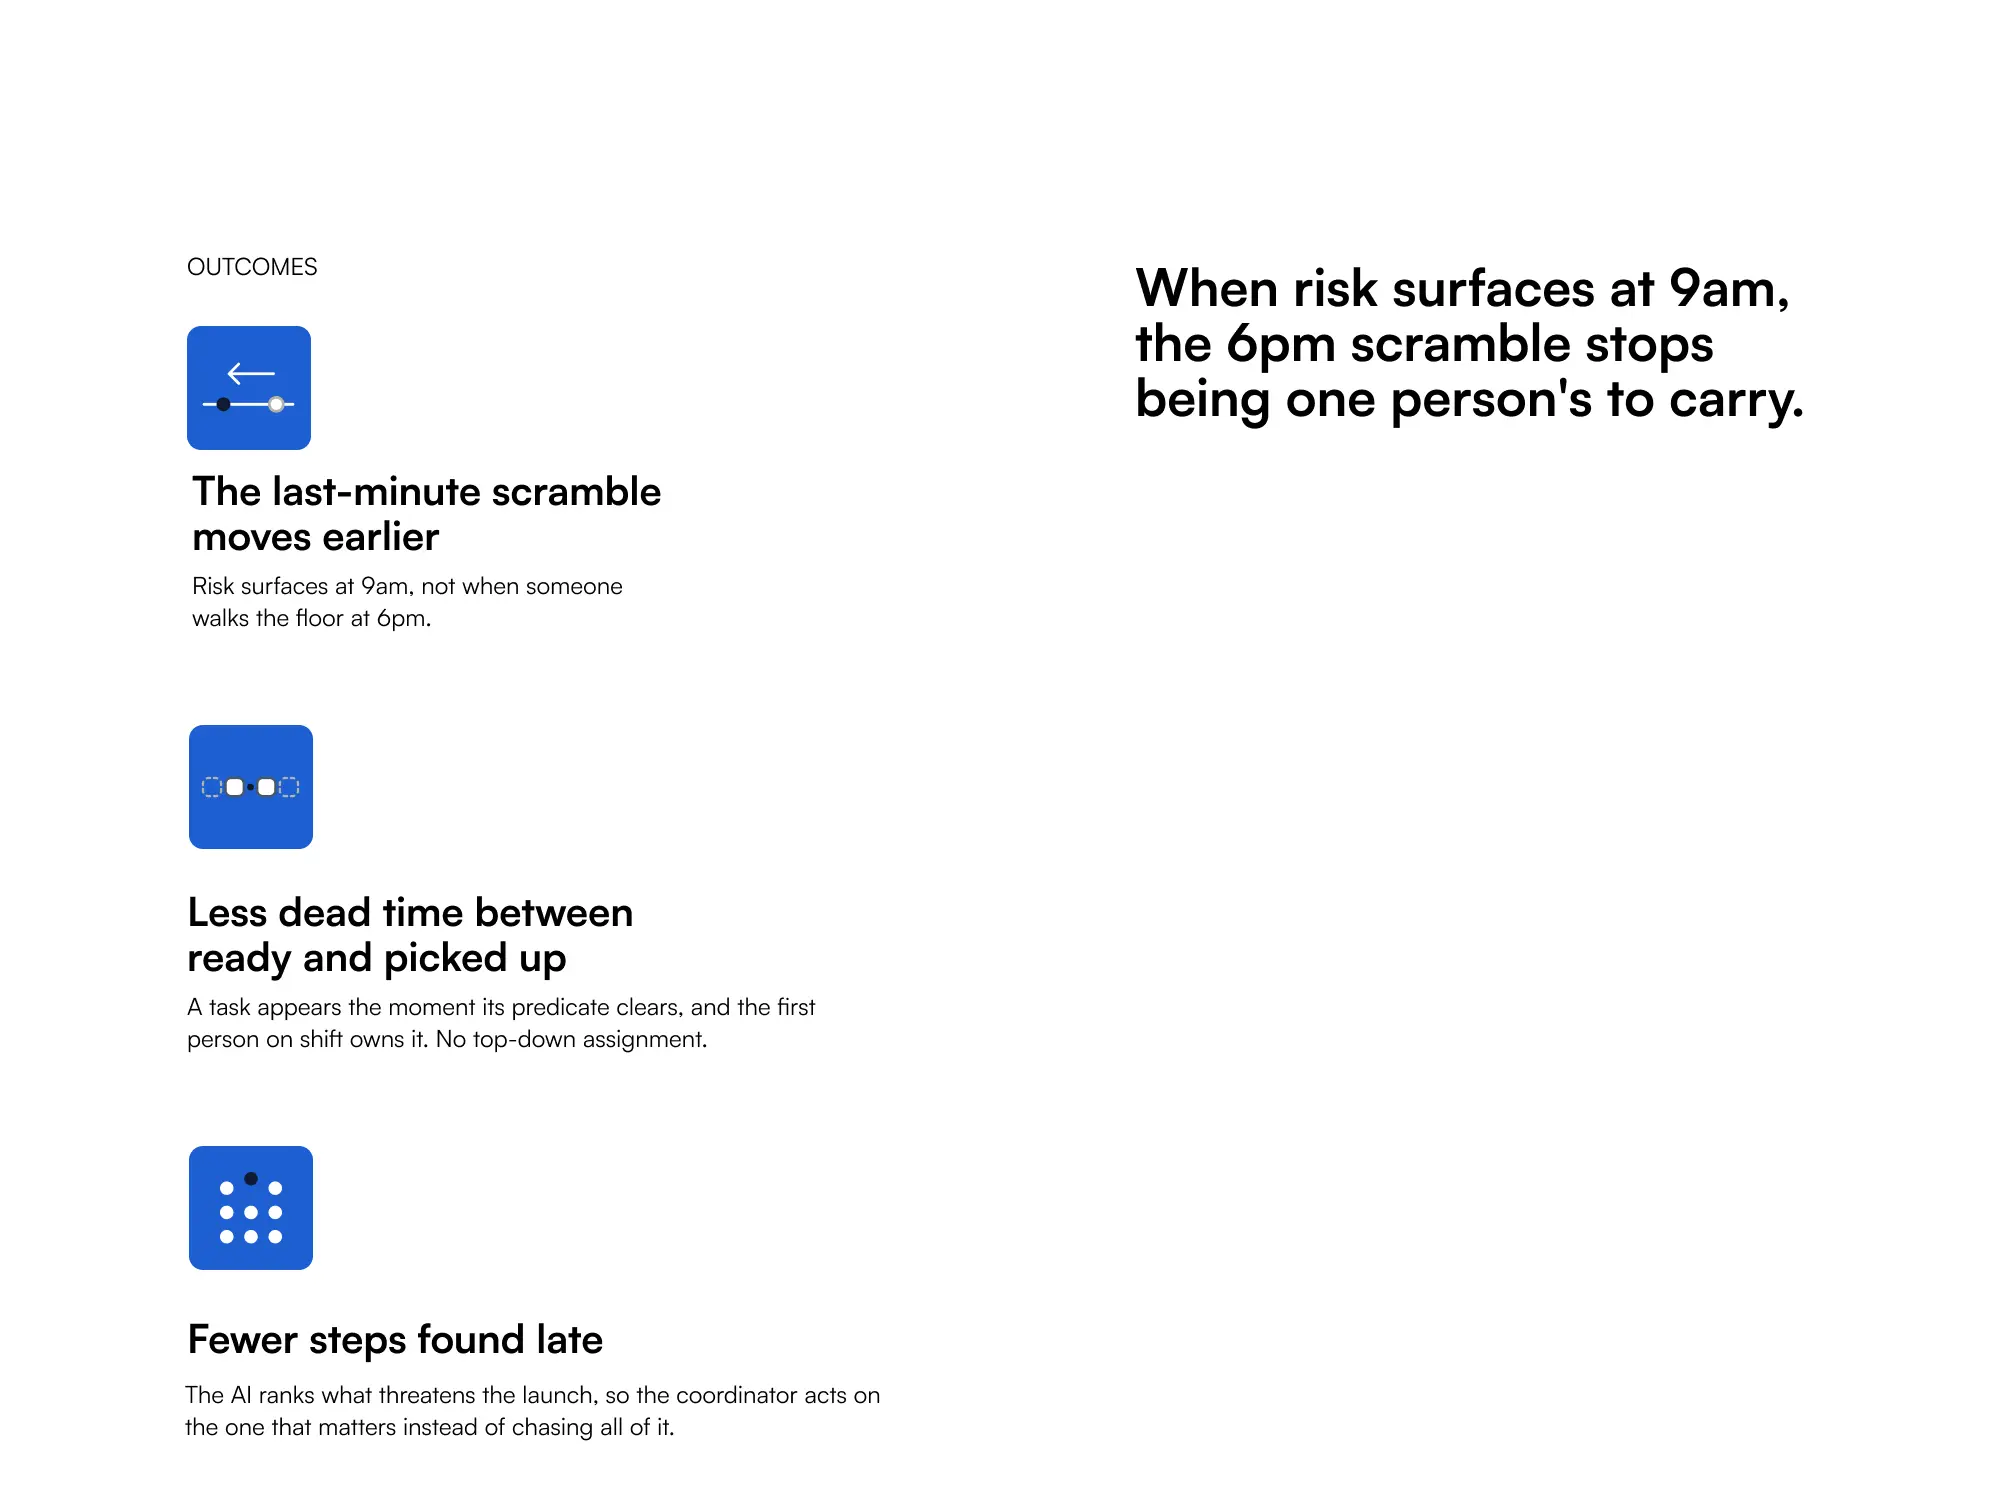
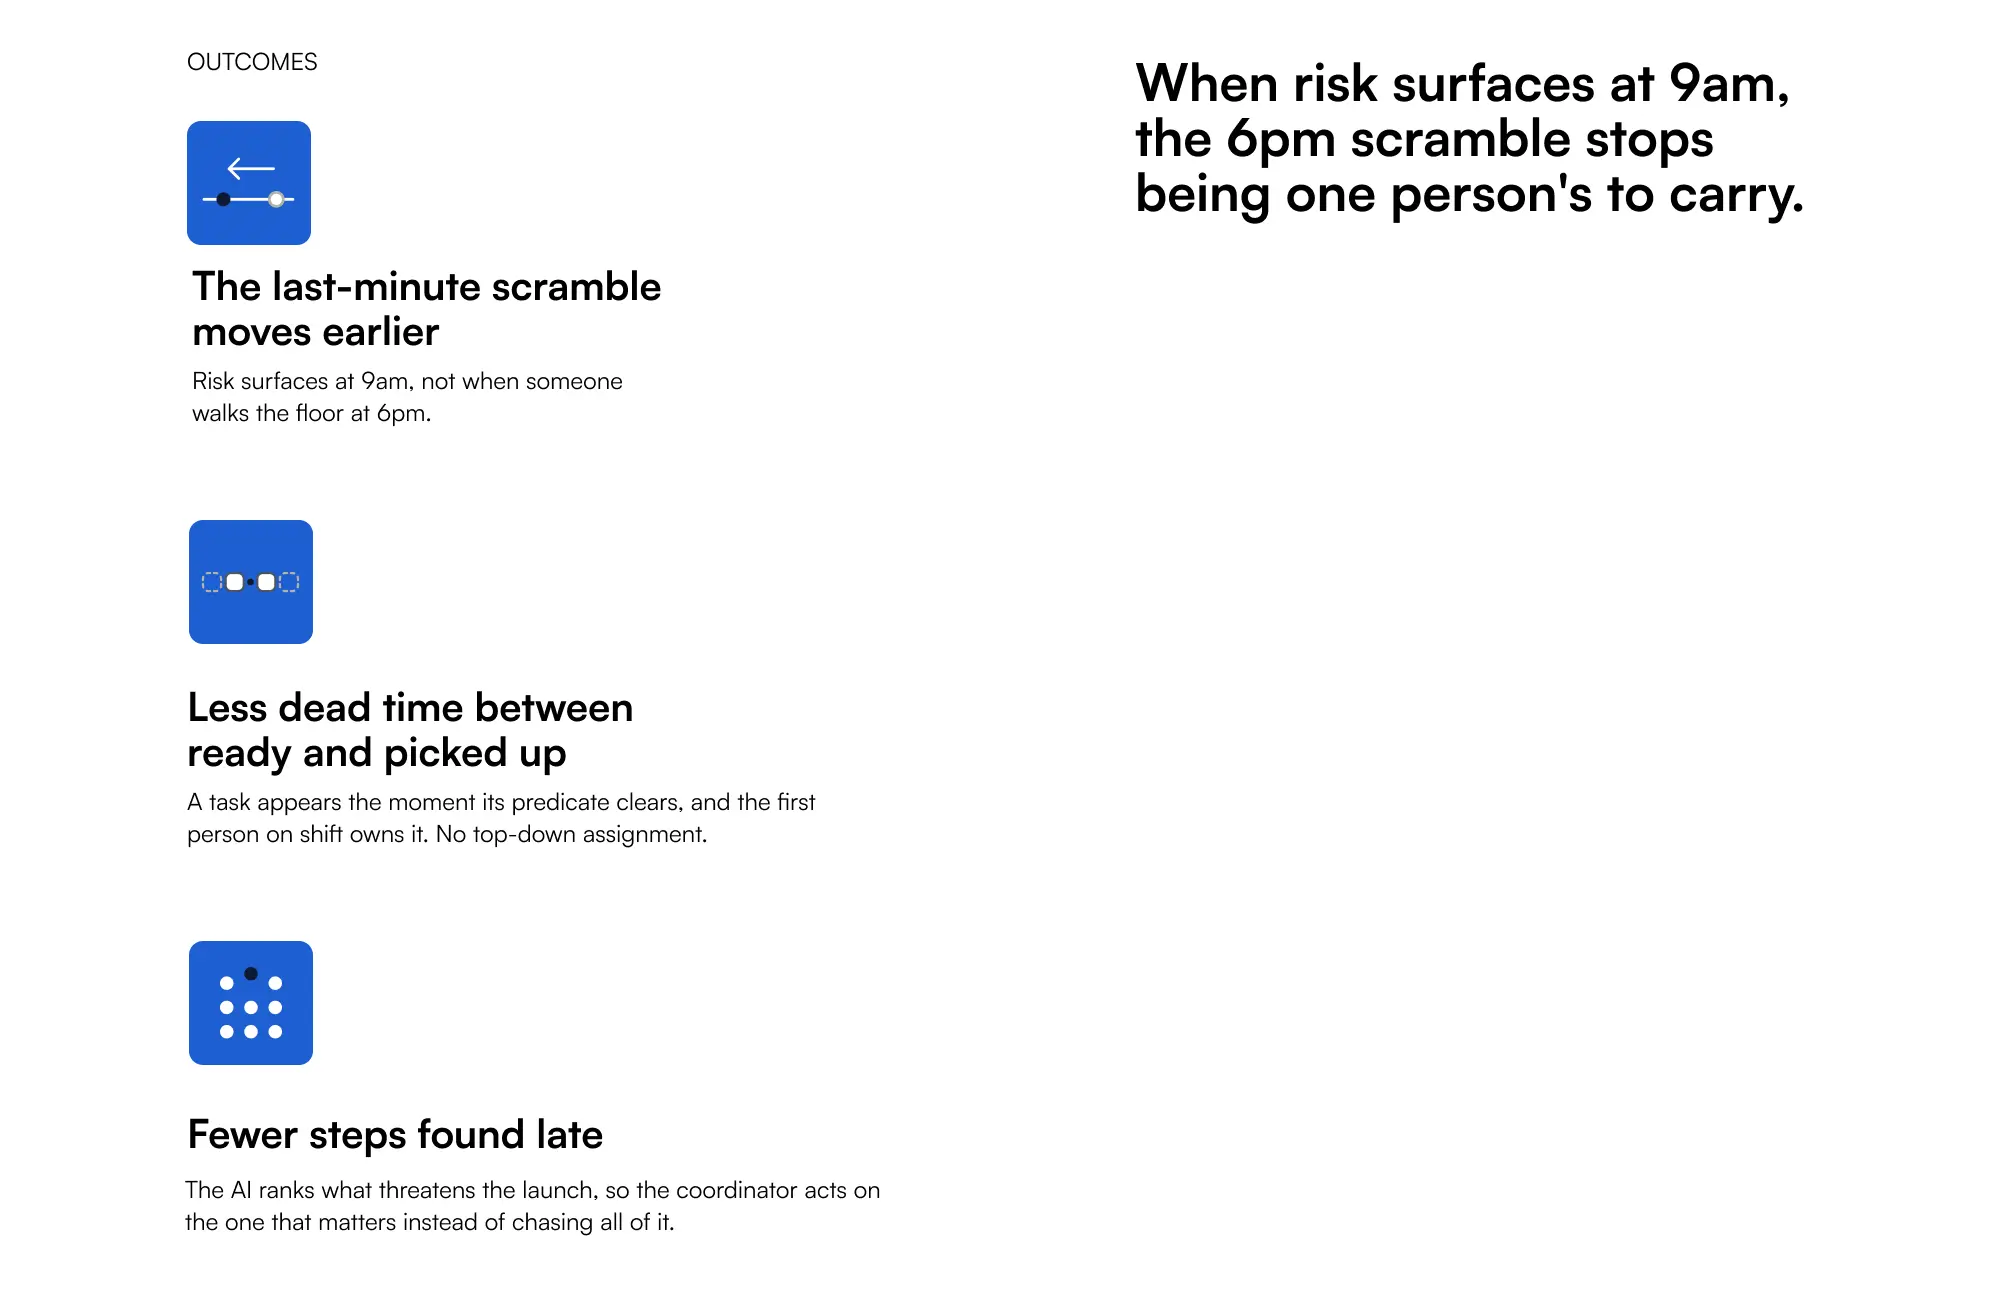
Update Risk Dash content

Changed region(s): [[0.093, 0.0935, 0.434, 0.9665], [0.558, 0.0312, 0.899, 0.2806], [0.093, 0.0312, 0.155, 0.0624]]

diff --git a/src/data/projects.ts b/src/data/projects.ts
@@ -1,7 +1,7 @@
 import cho7Main from "@/assets/projects/cho7-main.png?webp";
 import mr90Main from "@/assets/projects/mr90-main.png?webp";
 import matchpointMain from "@/assets/projects/matchpoint-main.png?webp";
-import Risk_Dash_main from "@/assets/projects/Risk_Dash_main.png";
+import Risk_Dash_main from "@/assets/projects/Risk_Dash_main.webp";
 import NordicPaws_main from "@/assets/projects/NordicPaws_main.png";
 import childrensRoomMain from "@/assets/projects/childrens-room-main.png?webp";
 import childrensRoom2Main from "@/assets/projects/childrens-room2-main.png?webp";
